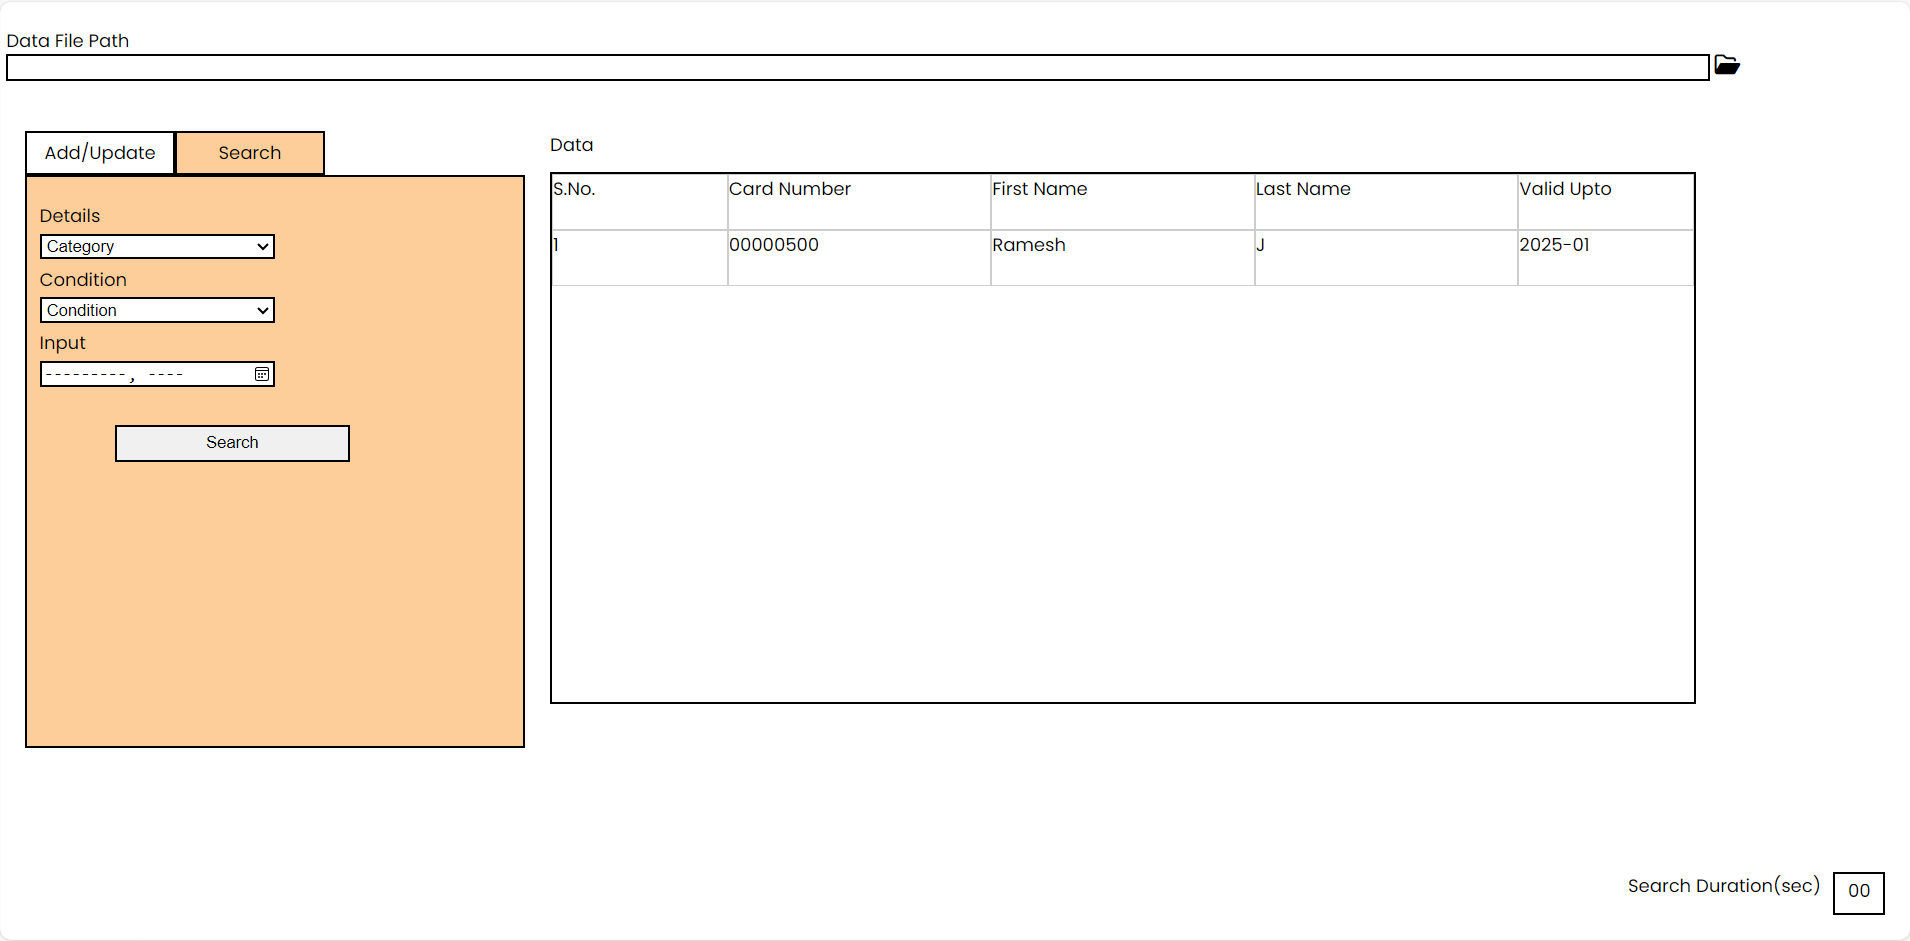
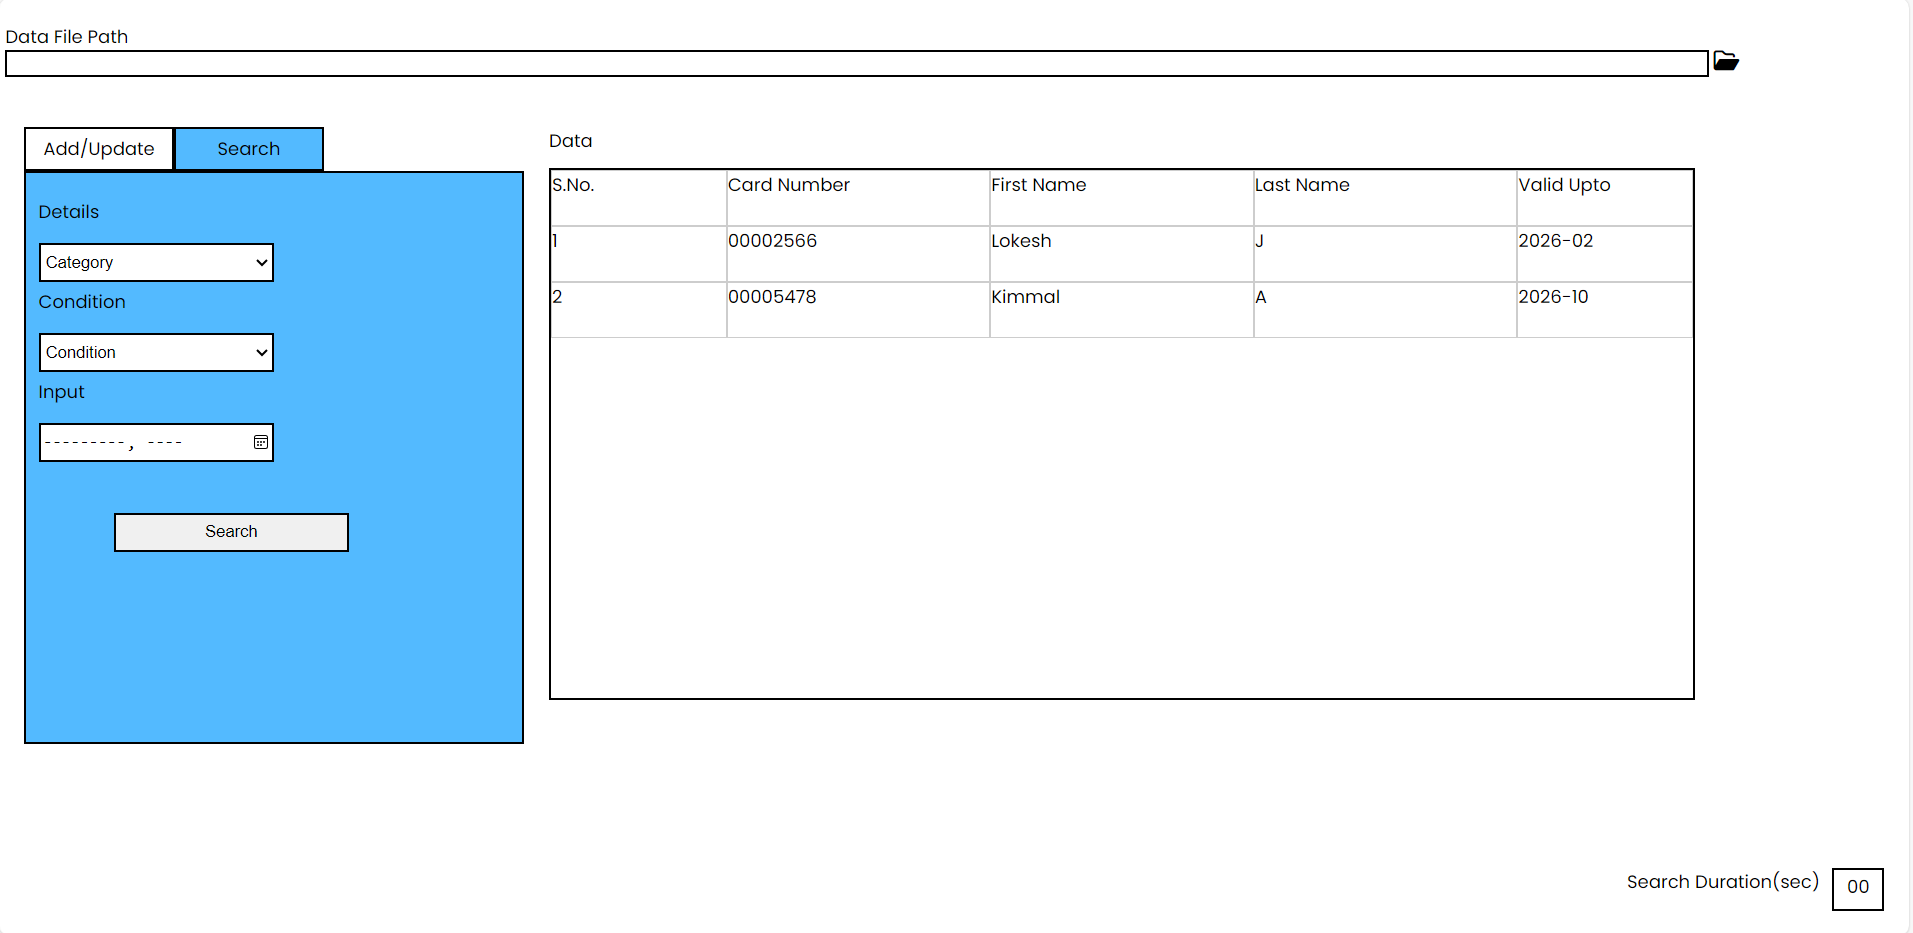
feat: latest update

diff --git a/src/js/sortingFunctions.js b/src/js/sortingFunctions.js
@@ -49,7 +49,35 @@ export function sortHandler(searchFieldValues) {
 async function filterOnValueEquals(inputFieldValue) {
   let detailValue = details.value
   let displayDataArray = await getDisplayData()
-  console.log(displayDataArray)
   displayDataArray = displayDataArray.filter((item) => item[detailValue] === inputFieldValue[2])
+  updateDisplayData(displayDataArray)
+}
+
+async function filterOnValueNotEquals(inputFieldValue) {
+  let detailValue = details.value
+  let displayDataArray = await getDisplayData()
+  displayDataArray = displayDataArray.filter((item) => item[detailValue] !== inputFieldValue[2])
+  updateDisplayData(displayDataArray)
+}
+
+async function filterOnValueContains(inputFieldValue) {
+  let detailValue = details.value
+  let displayDataArray = await getDisplayData()
+  displayDataArray = displayDataArray.filter((item) => item[detailValue].indexOf(inputFieldValue[2]) >= 0)
+  updateDisplayData(displayDataArray)
+}
+
+async function filterOnValueBegins(inputFieldValue) {
+  let detailValue = details.value
+  let displayDataArray = await getDisplayData()
+  displayDataArray = displayDataArray.filter((item) => item[detailValue].indexOf(inputFieldValue[2]) === 0)
+  updateDisplayData(displayDataArray)
+}
+
+async function filterOnValueEnds(inputFieldValue) {
+  let detailValue = details.value
+  let displayDataArray = await getDisplayData()
+  console.log('entered')
+  displayDataArray = displayDataArray.filter((item) => item[detailValue].endsWith(inputFieldValue[2]) === true)
   updateDisplayData(displayDataArray)
 }

diff --git a/src/js/main.js b/src/js/main.js
@@ -154,6 +154,20 @@ function searchHandler(inputFields) {
   }
 }
 
-export function updateDisplayData() {
-  
+export function updateDisplayData(filteredArray) {
+  let serialNumber = htmlComponents.getDisplayColumns().length
+  for (let i = 1; i < serialNumber; i++) {
+    htmlComponents.dataDisplayGrid.removeChild(htmlComponents.dataDisplayGrid.lastChild)
+  }
+  serialNumber = htmlComponents.getDisplayColumns().length
+  for (const record of filteredArray) {
+    const htmlMarkup = `<div class="data-display-column">
+            <p class="display-data">${serialNumber++}</p>
+            <p class="display-data card-number-field">${record.cardNumber}</p>
+            <p class="display-data">${record.cardHolderFirstName}</p>
+            <p class="display-data">${record.cardHolderLastName}</p>
+            <p class="display-data">${record.cardExpiry}</p>
+          </div>`
+    htmlComponents.dataDisplayGrid.insertAdjacentHTML('beforeend', htmlMarkup) 
+  }
 }

diff --git a/src/js/formFunctions.js b/src/js/formFunctions.js
@@ -19,6 +19,6 @@ export function getFirstName(inputValue) {
 export function getLastName(inputValue) {
   if (!inputValue || typeof inputValue !== "string") throw new Error("Invalid Input");
   const indexOfSpace = inputValue.indexOf(' ')
-  if (indexOfSpace === -1) return inputValue
-  else return inputValue.slice(indexOfSpace)
+  if (indexOfSpace === -1) return 'inputValue'
+  else return inputValue.slice(indexOfSpace+1)
 }
